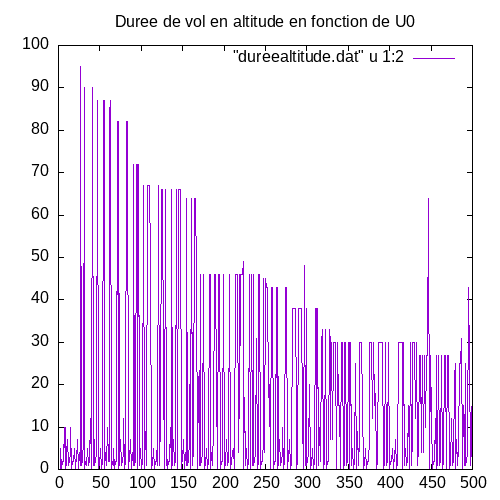
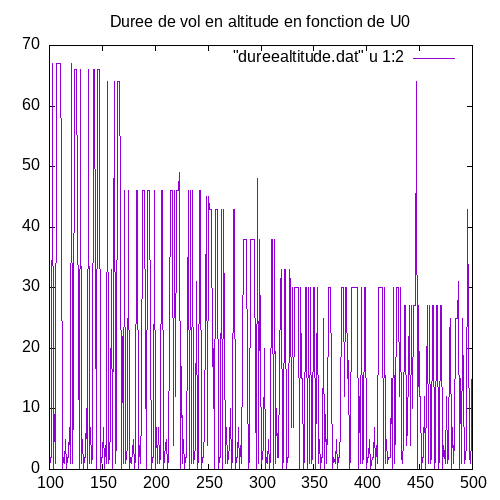
Add files via upload

diff --git a/Unix/Syracuse.py b/Unix/Syracuse.py
@@ -14,13 +14,10 @@ def syracuse(n):
     elif n <= 0:
         print("non")
     else:
-        print("n Un")
-        print(a," ",n)
         while n != 1:
             if (n % 2) == 0:
                 n = n//2
                 a = a+1
-                print(a," ",n)
                 if altimax < n:
                     altimax = n
                 if altimin > n:
@@ -41,7 +38,6 @@ def syracuse(n):
             else:
                 n = (n*3)+1
                 a = a+1
-                print(a," ",n)
                 if altimax < n:
                     altimax = n
                 if altimin > n:
@@ -59,17 +55,25 @@ def syracuse(n):
                         nbduree = nbduree + 1
                     d = 0
 
-        altimoy = altimoy//a
-        dureealtitudemoy = dureealtitudemoy//nbduree
+            altimoy = altimoy//a
+        if nbduree != 0:
+            dureealtitudemoy = dureealtitudemoy//nbduree
+        else:
+            dureealtitudemoy = 0
 
+        print("n=",g)
+        print("")
         print("Durée de vol maximale = ",a)
         print("Durée de vol minimale = ",a)
-        print("Durée de vol moyen = ",a//a)
+        print("Durée de vol moyen = ",(a+a)//2)
         print("Altitude maximale = ",altimax)
         print("Altitude minimale = ",altimin)
         print("Altitude moyenne = ",altimoy)
         print("Durée de vol maximale en altitude = ",dureealtitudemax)
         print("Durée de vol minimale en altitude = ",dureealtitudemin)
         print("Durée de vol moyen en altitude = ",dureealtitudemoy)
-
-syracuse(Changer)
+        print("")
+g=AChanger
+while g!=Changer:
+    syracuse(g)
+    g+=1

diff --git a/Unix/Syracuse2.py b/Unix/Syracuse2.py
@@ -75,6 +75,7 @@ def syracuse(n):
         # print("Durée de vol minimale en altitude = ",dureealtitudemin)
         # print("Durée de vol moyen en altitude = ",dureealtitudemoy)
 
-
-for g in range(Changer):
+g=AChanger
+while g!=Changer:
     syracuse(g)
+    g+=1

diff --git a/Unix/Syracuse5.py b/Unix/Syracuse5.py
@@ -63,6 +63,7 @@ def syracuse(n):
 
         print(g," ",dureealtitudemax)
 
-
-for g in range(Changer):
+g=AChanger
+while g!=Changer:
     syracuse(g)
+    g+=1

diff --git a/Unix/Syracuse3.py b/Unix/Syracuse3.py
@@ -63,6 +63,7 @@ def syracuse(n):
 
         print(g," ",altimax)
 
-
-for g in range(Changer):
+g=AChanger
+while g!=Changer:
     syracuse(g)
+    g+=1

diff --git a/Unix/Syracuse4.py b/Unix/Syracuse4.py
@@ -63,6 +63,7 @@ def syracuse(n):
 
         print(g," ",a)
 
-
-for g in range(Changer):
+g=AChanger
+while g!=Changer:
     syracuse(g)
+    g+=1
